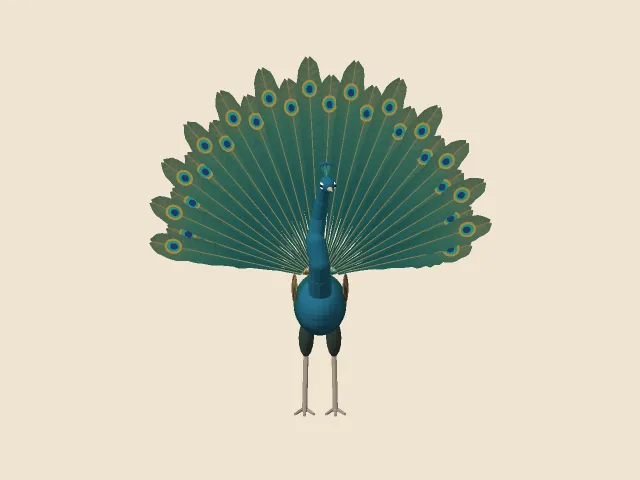
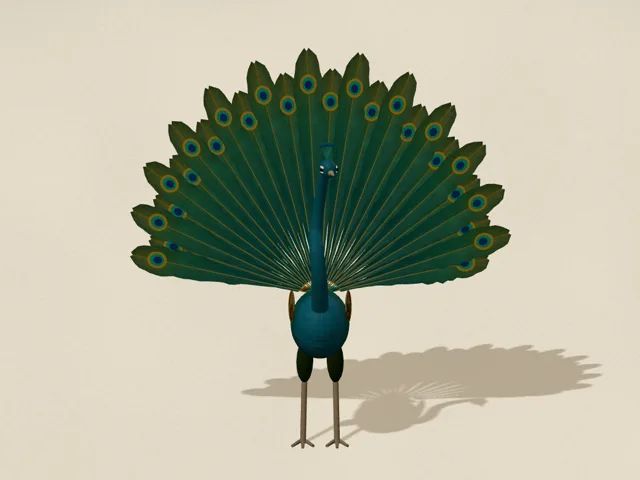
painterly-peacock: smooth, slimmer neck and a fixed browser check after real-GPU review
First run of browser-check on a real GPU (Apple M4, Chrome): 63 of 65. Both
failures were the script reading the train opening from snapshot().fan; it
lives at snapshot().peacock.fan. The page itself was fine. Now 65 of 65.

- Neck: each bone was drawn as its own cylinder, so every joint was a hard
  corner and the neck read as a thick bent pipe (0.15 m across at the base,
  body half-width 0.17). It is now drawn along a Catmull-Rom curve through
  the joints, 4 pieces per bone, tapering 0.05 m to 0.026 m.
- Rest pose: the head sat 0.706 m from the neck base on a 0.91 m chain, so
  the 0.2 m of slack folded into a swan-like U at the chest. Rest head moves
  to (0, 1.68, 0.40), about 91 % taut, a gentle curve. Chain length and reach
  are unchanged, so the pickup chain and beak tests are untouched.
- Cover replaced with a real-GPU screenshot of the open train. SPEC records
  draw calls (24), triangles (20,311 counted in Node), frame rate (60 fps
  desktop and phone viewport, headless), and the click hit test (26 of 26
  eyes pluck their own feather, mouse and touch).

Changed region(s): [[0.1875, 0.0938, 0.9375, 0.9375]]

diff --git a/painterly-peacock/src/peacock.js b/painterly-peacock/src/peacock.js
@@ -158,6 +158,7 @@ function eyeGeometry() {
   return mergeGeometries(parts);
 }
 
+const NECK_SUB = 4, NECK_DRAWN = NECK.n * NECK_SUB;
 // ---------- the whole bird ----------
 export function buildPeacock() {
   const root = new THREE.Group(); root.name = 'peacock';
@@ -171,8 +172,8 @@ export function buildPeacock() {
   const parts = {
     body: mk('body', 'body', bodyGeometry(), paintMaterial({ brush: 0.26, scale: 22, roughness: 0.7, metalness: 0.06 })),
     wings: [-1, 1].map(s => mk('wing-' + (s < 0 ? 'right' : 'left'), 'wing', wingGeometry(), paintMaterial({ brush: 0.18, scale: 30 }))),
-    neckSeg: mk('neck-segments', 'neck-seg', paint(new THREE.CylinderGeometry(1, 1, 1, 12, 1, true), PALETTE.neck), paintMaterial({ brush: 0.25, scale: 6, roughness: 0.6, metalness: 0.1 }), NECK.n),
-    neckJoint: mk('neck-joints', 'neck-joint', paint(new THREE.SphereGeometry(1, 14, 10), PALETTE.neck), paintMaterial({ brush: 0.25, scale: 6, roughness: 0.6, metalness: 0.1 }), NECK.n + 1),
+    neckSeg: mk('neck-segments', 'neck-seg', paint(new THREE.CylinderGeometry(1, 1, 1, 12, 1, true), PALETTE.neck), paintMaterial({ brush: 0.25, scale: 6, roughness: 0.6, metalness: 0.1 }), NECK_DRAWN),
+    neckJoint: mk('neck-joints', 'neck-joint', paint(new THREE.SphereGeometry(1, 12, 8), PALETTE.neck), paintMaterial({ brush: 0.25, scale: 6, roughness: 0.6, metalness: 0.1 }), NECK_DRAWN + 1),
     head: mk('head', 'head', headGeometry(), paintMaterial({ brush: 0.2, scale: 40, roughness: 0.6, metalness: 0.08 })),
     thighs: mk('thighs', 'thighs', paint(new THREE.SphereGeometry(0.5, 12, 8), PALETTE.thigh), paintMaterial({ brush: 0.3, scale: 30 }), 2),
     legs: mk('legs', 'legs', paint(new THREE.CylinderGeometry(1, 1, 1, 8), PALETTE.leg), paintMaterial({ brush: 0.15 }), 2),
@@ -193,14 +194,27 @@ export function buildPeacock() {
     Q.setFromUnitVectors(up, B.clone().sub(A).normalize());
     M.compose(T.copy(A).add(B).multiplyScalar(0.5), Q, Sv.set(r, L, r)); im.setMatrixAt(i, M);
   };
-  const neckR = (i) => 0.075 - 0.04 * Math.min(1, i / NECK.n);
+  // The neck is drawn along a Catmull-Rom curve through the solver's joints, NECK_SUB short pieces per bone,
+  // so the bones' corners read as one smooth S instead of a bent pipe; it tapers from 0.05 m to 0.026 m.
+  // Only the drawing changes: the solver, the head frame and the beak still come from the joints themselves.
+  const neckR = (u) => 0.05 - 0.024 * Math.min(1, u);
+  const neckPts = Array.from({ length: NECK_DRAWN + 1 }, () => [0, 0, 0]);
+  const catmull = (p0, p1, p2, p3, t, out) => {
+    const t2 = t * t, t3 = t2 * t;
+    for (let k = 0; k < 3; k++) out[k] = 0.5 * (2 * p1[k] + (p2[k] - p0[k]) * t + (2 * p0[k] - 5 * p1[k] + 4 * p2[k] - p3[k]) * t2 + (3 * p1[k] - p0[k] - 3 * p2[k] + p3[k]) * t3);
+    return out;
+  };
   function update(pose) {
     const bf = pose.bodyFrame;
     setBasis(parts.body, bf.x, bf.y, bf.z, bf.o);
     pose.wings.forEach((w, i) => { const z = w.z, y = w.up, x = [y[1] * z[2] - y[2] * z[1], y[2] * z[0] - y[0] * z[2], y[0] * z[1] - y[1] * z[0]]; setBasis(parts.wings[i], x, y, z, w.o); });
     const n = pose.neck;
-    for (let i = 0; i < NECK.n; i++) segment(parts.neckSeg, i, n[i], n[i + 1], neckR(i + 0.5));
-    for (let i = 0; i <= NECK.n; i++) { const r = neckR(i); M.compose(T.set(...n[i]), Q.identity(), Sv.set(r, r, r)); parts.neckJoint.setMatrixAt(i, M); }
+    for (let j = 0; j <= NECK_DRAWN; j++) {
+      const i = Math.min(NECK.n - 1, Math.floor(j / NECK_SUB)), t = j / NECK_SUB - i;
+      catmull(n[Math.max(0, i - 1)], n[i], n[i + 1], n[Math.min(NECK.n, i + 2)], t, neckPts[j]);
+    }
+    for (let j = 0; j < NECK_DRAWN; j++) segment(parts.neckSeg, j, neckPts[j], neckPts[j + 1], neckR((j + 0.5) / NECK_DRAWN));
+    for (let j = 0; j <= NECK_DRAWN; j++) { const r = neckR(j / NECK_DRAWN); M.compose(T.set(...neckPts[j]), Q.identity(), Sv.set(r, r, r)); parts.neckJoint.setMatrixAt(j, M); }
     const h = pose.head; setBasis(parts.head, h.x, h.y, h.z, h.o);
     pose.legs.forEach((L, i) => {
       segment(parts.thighs, i, L.hip, L.knee, 0.1); segment(parts.legs, i, L.knee, L.foot, 0.017);

diff --git a/painterly-peacock/src/core.js b/painterly-peacock/src/core.js
@@ -182,7 +182,7 @@ export function cameraFor(aspect) {
 }
 
 // ---------- the simulation ----------
-const restHead = (lift, bob = 0) => [0, 1.56 + lift, 0.36 + bob];   // head joint in the heading frame
+const restHead = (lift, bob = 0) => [0, 1.68 + lift, 0.40 + bob];   // head joint in the heading frame; ~91 % of the neck chain, so it stands as a gentle curve, not a looped S
 const REST_PITCH = -0.12;
 // At rest it stands three-quarter on, turned toward the middle of the stage, so the folded train shows.
 export const IDLE_TURN = 0.8;

diff --git a/painterly-peacock/SPEC.md b/painterly-peacock/SPEC.md
@@ -5,7 +5,7 @@
 ## 场景、配色与构图
 
 - 舞台：地面 y = 0，孔雀能走的范围随屏幕比例变：桌面（宽高比 1.6）x ±1.12、z −0.9…0.75；手机竖屏（390×664）x ±0.24、z −0.55…0.45。尺寸是场景里的米，示意。
-- 孔雀（`src/core.js` 定尺寸，`src/peacock.js` 造型）：身体是椭球（半轴 0.17 × 0.19 × 0.34，中心高 0.72），胸前一块深蓝绿，背上一圈小覆羽遮住尾羽根；脖子 7 节（每节 0.13，FABRIK 求解，从一条长度等于脖子的 S 形引导曲线起步，松的时候是平缓的 S 而不是折线）；头上有喙（长 0.16）、白色脸纹、黑眼睛、7 根冠羽；两条腿是两段 IK（大腿藏在羽毛里、画成深色短椭球，小腿细），脚四趾；两只翅膀平时贴身、跳跃时张开。
+- 孔雀（`src/core.js` 定尺寸，`src/peacock.js` 造型）：身体是椭球（半轴 0.17 × 0.19 × 0.34，中心高 0.72），胸前一块深蓝绿，背上一圈小覆羽遮住尾羽根；脖子 7 节（每节 0.13，FABRIK 求解，从一条长度等于脖子的 S 形引导曲线起步）；静止时头在朝向坐标 (0, 1.68, 0.40)，脖子约九成拉直，是一道平缓的弧（原来 1.56 / 0.36 只拉直七成多，多出的 0.2 m 在胸前折成天鹅式的 U 形回弯，2026-11-24 真显卡复核时改）；画的时候沿关节点走 Catmull-Rom 曲线，每节细分 4 段，半径从根部 0.05 收到头部 0.026（原来每节一根圆柱，关节处是硬折角，粗得像水管）；头上有喙（长 0.16）、白色脸纹、黑眼睛、7 根冠羽；两条腿是两段 IK（大腿藏在羽毛里、画成深色短椭球，小腿细），脚四趾；两只翅膀平时贴身、跳跃时张开。
 - 尾屏：26 根尾羽，每根有自己的 id、在身体上的锚点（插槽）、收拢方向和开屏方向。开屏按 `featherFan`：中间的先起、两边的后到，方向逐根插值，是真的几何运动，不是两张图交叉淡入。满屏时任意两个眼斑中心距 ≥ 眼斑直径（0.115）。
 - 颜色全部是顶点色（sRGB 写、Three.js 转线性），不用 `instanceColor`。底色象牙 `#efe6d3`；羽色深蓝绿 `#0f4c4f` / `#0a3436`、胸 `#1b5f78`、脖子 `#165a6e`；尾羽羽片 `#17504a` 渐到 `#2f6450`、靠眼斑处掺一点暗金 `#8c6a26`；眼斑三圈：暗金 `#9a7a2c`、蓝绿 `#1d7f74`、深蓝 `#12305e`；翅膀褐色条纹。
 - 油画感：每个材质在片元里用物体空间的拉长噪声把顶点色打散成笔触（随物体走，不在屏幕上游动），再加一层很细的屏幕颗粒；整幅画上再盖一层全屏的布纹、斑驳和暖色暗角（`paper`）。
@@ -44,9 +44,9 @@
 
 ## 预算（照实写）
 
-- 三角面：16,951 个（`tests/scene.test.cjs` 在 Node 里按场景图逐个网格数，含实例数）。对象 14 个（孔雀 12 个网格，其中 7 个是实例化的；接影子的地面 1 个；全屏纸纹 1 个）。
-- 绘制次数：估计每帧约 24 次（14 个对象 + 阴影那一遍 10 个投影件）。这是按场景图数的估计，没有在浏览器里读过 `renderer.info`。
-- 帧率：没有测。写这一页的环境没有显卡，也起不了浏览器，帧率数字一个都没有，不作结论。
+- 三角面：20,311 个（`tests/scene.test.cjs` 在 Node 里按场景图逐个网格数，含实例数；脖子细分后比原来的 16,951 多 3,360）。浏览器里 `renderer.info` 读到约 3.6 万，多出来的是阴影那一遍。对象 14 个（孔雀 12 个网格，其中 7 个是实例化的；接影子的地面 1 个；全屏纸纹 1 个）。
+- 绘制次数：2026-11-24 在 Mac mini（Apple M4，Chrome，ANGLE Metal）读 `renderer.info`，每帧 24 次，和估计一致。
+- 帧率：同一台机器、无头 Chrome、机器负载 6–8，5 秒平均：桌面 1440×900（像素比 1.5）站立和满屏都是 60.1 fps，手机视口 390×664（像素比 2）满屏 60.0 fps，都到了刷新率上限。手机真机没测。
 - 单文件约 595 KB（含 Three.js 0.186.1），预算 ≤ 1 MB。
 
 ## 验收条目
@@ -68,12 +68,12 @@
 
 ## 截图和预览
 
-- `tools/browser-check.cjs`：真实 Chrome 截 10 张固定状态图（5 个状态 × 桌面 1440×900、手机 390×664）加 `report.json`。**还没跑过**：写这一页的环境下载不了 Playwright 的浏览器（下载地址被网络策略拦截），也没有本地 Chrome。阈值是没跑过的第一版，第一次在真机上跑时可能要调。
-- `tools/preview.cjs`：Node 里的 CPU 构图预览，用的是同一套场景图、同一个 `playScene` 和 `cameraFor`，平面着色，没有阴影、没有笔触噪声和颗粒、没有色调映射、没有页面文字。只能看构图、比例和遮挡，不是 WebGL 截图。首页封面 `covers/painterly-peacock.webp` 目前就是这个预览（满屏状态，4:3），等真显卡截图后应该换掉。
+- `tools/browser-check.cjs`：真实 Chrome 截 10 张固定状态图（5 个状态 × 桌面 1440×900、手机 390×664）加 `report.json`。2026-11-24 第一次在真显卡上跑：65 项过 63，没过的两项是脚本把开屏量读成 `snapshot().fan`（实际在 `snapshot().peacock.fan`），改字段后 65 项全过；页面本身没问题。像素阈值没改。
+- `tools/preview.cjs`：Node 里的 CPU 构图预览，用的是同一套场景图、同一个 `playScene` 和 `cameraFor`，平面着色，没有阴影、没有笔触噪声和颗粒、没有色调映射、没有页面文字。只能看构图、比例和遮挡，不是 WebGL 截图。首页封面 `covers/painterly-peacock.webp` 已换成真显卡下满屏状态的截图（640×480）。
 
 ## 已知还没验证的
 
-- 真显卡下的样子：笔触噪声的强弱、纸纹暗角、阴影、Neutral 色调映射后的实际颜色、轮廓光，全都没在屏幕上看过。
-- 帧率、绘制次数的实测值、手机真机的触屏和发热。
+- 真显卡下的样子 2026-11-24 已看过 10 张截图：笔触、纸纹暗角、阴影正常，Neutral 映射后蓝绿和暗金没发灰，着色器编译正常。同日实测点击命中：满屏状态逐根点 26 个眼斑，桌面鼠标和手机触屏都是 26/26 拔中那一根；鼠标停在空地上，孔雀走过去站定，6 秒内动作只切换一次，没有开屏和走路来回打架。
+- 手机真机的触屏手感和发热。
 - 声音只在代码里写了，没听过。
 - 鼠标悬停判定用的是对整只孔雀的射线检测，离开后 0.35 s 才收屏；手感没试过。
